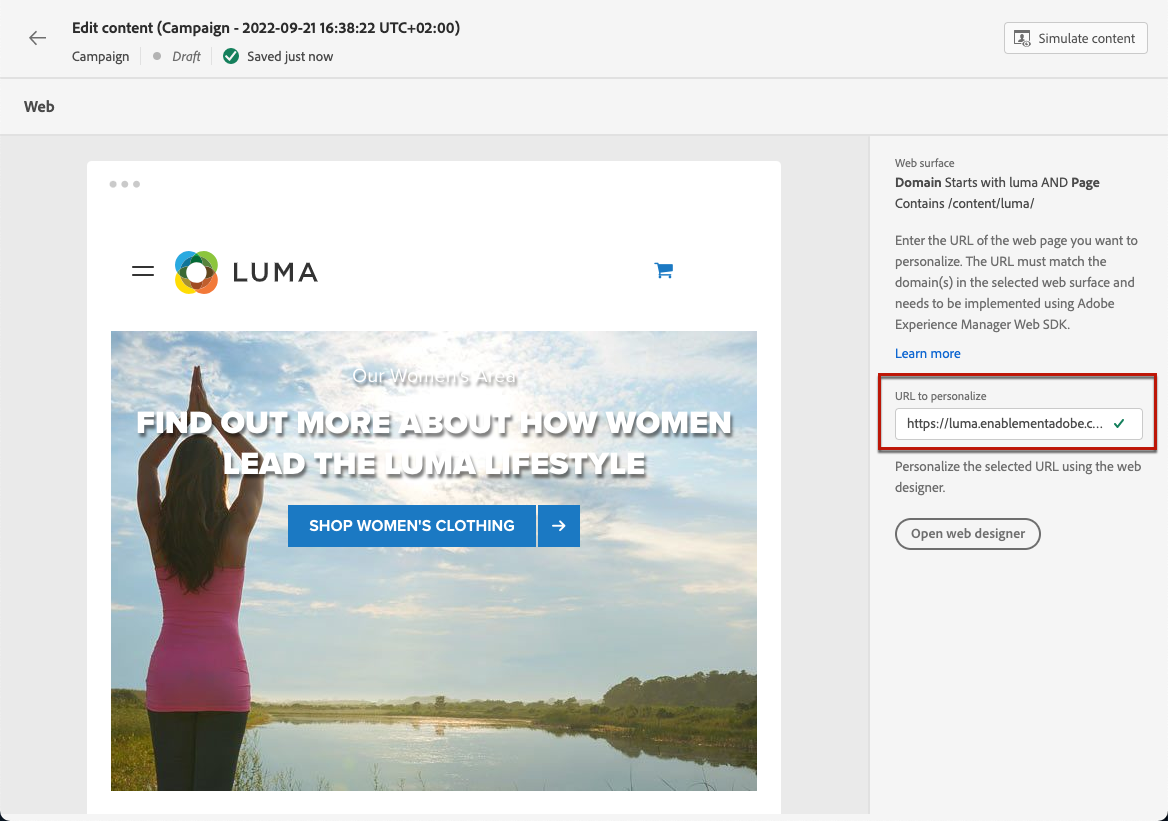
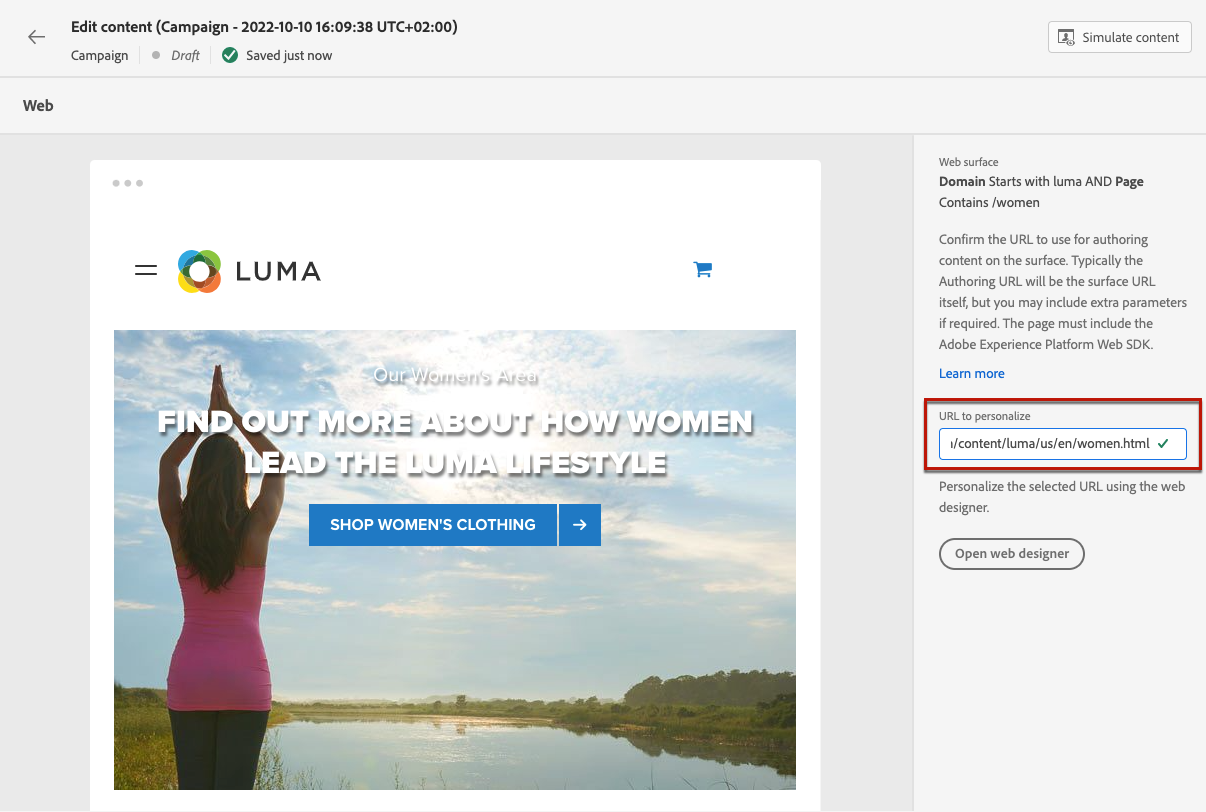
web

diff --git a/help/using/web/author-web.md b/help/using/web/author-web.md
@@ -1,7 +1,7 @@
 ---
 title: Author a web page
 description: Learn how to author a web page and edit its content in Journey Optimizer
-feature: Email
+feature: Web channel
 topic: Content Management
 role: User
 level: Beginner
@@ -9,74 +9,27 @@ level: Beginner
 ---
 # Author web pages {#author-web}
 
-In order to add modifications to your website:
+## Edit web page content {#edit-web-content}
 
-* You must download the [Adobe Experience Cloud Visual Editing Helper](https://chrome.google.com/webstore/detail/adobe-experience-cloud-vi/kgmjjkfjacffaebgpkpcllakjifppnca){target="_blank"} browser extension on Chrome to access the web designer.
-
-    >[!CAUTION]
-    >
-    >Currently to author web pages you can only use Chrome.
-
-    <!--Add link to documentation (first to be documented for Target so we should be able to use the same doc).-->
-
-* You need to implement the [Adobe Experience Platform Web SDK](https://experienceleague.adobe.com/docs/platform-learn/implement-web-sdk/overview.html){target="_blank"} on your website.
-
-## Create a web campaign {#create-web-campaign}
-
-1. Create a campaign. [Learn more](../campaigns/create-campaign.md)
-
-1. Select the **[!UICONTROL Web]** action.
-
-    ![](assets/web-create-campaign.png)
-
-1. Set a web surface, meaning the URL where the content will be delivered.
-
-    >[!NOTE]
-    >
-    >    A web surface represents a web property identified by an URL that can match a single page URL or multiple pages, allowing users to deliver the modifications across one or multiple web pages.
-
-    You can either:
-
-    * Enter or select a **[!UICONTROL Page URL]** (will then be converted to a surface string) if you want to apply the changes to a single page only.
-
-    ![](assets/web-campaign-surface.png)
-    
-    * Define a **[!UICONTROL Pages matching rule]** to target multiple URLs matching the same rule - for example, if you want to apply the changes to a hero banner accross a whole website or add a top image that displays on all the product pages of a website.
-
-    ![](assets/web-campaign-matching-rule.png)
-
-1. Select **[!UICONTROL Create]**.
-
-1. From the **[!UICONTROL Action]** tab of the campaign, select **[!UICONTROL Edit content]**.
-
-    ![](assets/web-edit-content.png)
-
-1. Enter the URL of the page you want to personalize.
-
-    >[!NOTE]
-    >
-    >If you entered a single URL as the web surface, the URL to personalize is already populated. If you defined a **[!UICONTROL Pages matching rule]**, you must enter any URL matching this rule. The changes will be applied to all pages matching the rule.
-
-    ![](assets/web-edit-enter-url.png)
-
-    >[!CAUTION]
-    >
-    >The web page must be implemented using the [Adobe Experience Platform Web SDK](https://experienceleague.adobe.com/docs/platform-learn/implement-web-sdk/overview.html){target="_blank"}.
-
-
-1. The content of the page displays. Click **[!UICONTROL Open web designer]** to edit it.
-
-    ![](assets/web-open-designer.png)
-
-## Edit a web page content {#edit-web-content}
-
-Once you created a web action from the campaign, follow the steps below to edit its content with the web designer.
+Once you created a web action from the campaign, you can edit your content using the web designer.
 
 ![](assets/web-designer.png)
 
-1. You can replace an image, a link, etc.
+Select any element from the canvas, such as image, button, paragraph, text, container, heading, link etc. and use:
 
-1. You can duplicate and delete any element.
+* The contextual menu to edit its content, layout, insert links or personalization, etc.
+
+    ![](assets/web-designer-contextual-bar.png)
+
+* The icons on top of the right panel to edit, duplicate, delete or hide each element.
+
+    ![](assets/web-designer-right-panel-icons.png)
+
+* The right panel that changes dynamically according to the selected element. For example, you can edit the background, typography, border, size, position, spacing, effects or inline styles of an element.
+
+    ![](assets/web-designer-right-panel.png)
+
+## Use content components {#content-components}
 
 1. From the **[!UICONTROL Components]** pane on the left, you can add the following components to your web page and edit them as you need:
 
@@ -102,13 +55,21 @@ Once you created a web action from the campaign, follow the steps below to edit 
 
     ![](assets/web-designer-html-style.png)
 
-1. Select the **[!UICONTROL Expand/Collapse Breadcrumbs]** button on the lower left side of the screen to quickly display information about the selected element.
+## Navigate through the web designer
+
+### Use breadcrumbs
+
+1. Select any element from the canvas.
+
+1. Click the **[!UICONTROL Expand/Collapse Breadcrumbs]** button on the lower left side of the screen to quickly display information about the selected element.
 
     ![](assets/web-designer-breadcrumbs.png)
 
-    When you hover over the breadcrumbs, the corresponding element is highlighted in the editor. Using it you can easily navigate to any parent, sibling, or child element within the visual editor.
+1. When you hover over the breadcrumbs, the corresponding element is highlighted in the editor.
 
-## Browse mode {#browse-mode}
+1. Using it you can easily navigate to any parent, sibling, or child element within the visual editor.
+
+### Swap to browse mode {#browse-mode}
 
 You can swap from the default **[!UICONTROL Design]** mode to the **[!UICONTROL Browse]** mode using the dedicated button.
 
@@ -116,9 +77,9 @@ You can swap from the default **[!UICONTROL Design]** mode to the **[!UICONTROL 
 
 From the **[!UICONTROL Browse]** mode, you can navigate to the exact page from the selected surface you want to personalize.
 
-It is especially useful when dealing with pages that are behind authentication or that are not available from the start at a certain URL. For example, you will be able to authenticate, navigate to your account page or to your cart page and then switch back to **[!UICONTROL Design]** mode in order to perform the changes on your desired page.
+It is especially useful when dealing with pages that are behind authentication or that are not available from the start at a certain URL. For example, you will be able to authenticate, navigate to your account page or to your cart page, and then switch back to **[!UICONTROL Design]** mode in order to perform the changes on your desired page.
 
-## Change device size
+### Change device size
 
 You can change the device size to a predefined size such as **[!UICONTROL Tablet]** or **[!UICONTROL Mobile landscape]**, or define a custom size. Enter the desired number of pixels to define a custom size.
 
@@ -126,9 +87,9 @@ You can also change the zoom focus - from 25% to 400%.
 
 ![](assets/web-designer-device.png)
 
-## Manage modifications on a web page {#manage-modifications}
+## Manage modifications {#manage-modifications}
 
-You can easily manage all the components, adjustments and styles you added to your page.
+You can easily manage all the components, adjustments and styles you added to your web page.
 
 1. Select the **[!UICONTROL Modifications]** button to display the corresponding pane on the left.
 
@@ -148,7 +109,7 @@ You can easily manage all the components, adjustments and styles you added to yo
 
     <!--![](assets/web-designer-cancel-redo.png)-->
 
-## Add personalization and offers to a web page
+## Add personalization and offers
 
 To add personalization, select a container and select the personalization icon from the contextual menu bar that displays. Add your changes using the Expression editor. [Learn more](../personalization/personalization-build-expressions.md)
 
@@ -157,20 +118,3 @@ To add personalization, select a container and select the personalization icon f
 Use the **[!UICONTROL Offer decision]** component to insert [offers](../offers/get-started/starting-offer-decisioning.md) into your messages. It will leverage Decision Management to pick the best offer to deliver to your customers. [Learn more](../design/deliver-personalized-offers.md)
 
 ![](assets/web-designer-offer.png)
-
-## Preview and test
-
->[!CAUTION]
->
->You must have test profiles available to simulate which offers will be delivered to them. Learn how to [create test profiles](../segment/creating-test-profiles.md).
-
-1. Click **[!UICONTROL Simulate content]**.
-
-    ![](assets/web-designer-simulate.png)
-
-1. Click **[!UICONTROL Manage test profiles]** to select one or more test profiles.
-1. A preview of your modified web page is displayed. You can either open in the default browser or copy the test URL to use it in a different browser.
-
-    ![](assets/web-designer-preview.png)
-
-<!--See simulation.md and preview.md-->

diff --git a/help/using/web/create-web.md b/help/using/web/create-web.md
@@ -1,0 +1,153 @@
+---
+title: Author a web page
+description: Learn how to author a web page and edit its content in Journey Optimizer
+feature: Web channel
+topic: Content Management
+role: User
+level: Beginner
+
+---
+# Create web experiences {#create-web}
+
+[!DNL Journey Optimizer] allows you to personalize the web experience through inbound web campaigns.
+
+To be able to author your web experience, follow the prerequisites below.
+
+* To add modifications to your website, you need to implement the [Adobe Experience Platform Web SDK](https://experienceleague.adobe.com/docs/platform-learn/implement-web-sdk/overview.html){target="_blank"} on your website.
+
+* To access the [!DNL Journey Optimizer] web designer, you must download the [Adobe Experience Cloud Visual Editing Helper](https://chrome.google.com/webstore/detail/adobe-experience-cloud-vi/kgmjjkfjacffaebgpkpcllakjifppnca){target="_blank"} browser extension on Chrome.
+
+>[!CAUTION]
+>
+>Currently to author web pages you can only use Chrome.
+
+<!--Add link to Target??-->
+
+## Create a web campaign {#create-web-campaign}
+
+To start building a web experience through a campaign, follow the steps below.
+
+>[!CAUTION]
+>
+>Currently you can only create web experiences using **campaigns**.
+
+1. Create a campaign. [Learn more](../campaigns/create-campaign.md)
+
+1. Select the **[!UICONTROL Web]** action.
+
+    ![](assets/web-create-campaign.png)
+
+1. Define a web surface, which is a web property identified by a URL where the content will be delivered. It can match a single page URL or multiple pages, allowing you to deliver modifications across one or several web pages.
+
+    You can either:
+
+    * Enter a **[!UICONTROL Page URL]** if you want to apply the changes to a single page only.
+
+    ![](assets/web-campaign-surface.png)
+    
+    * Define a **[!UICONTROL Pages matching rule]** to target multiple URLs matching the same rule - for example, if you want to apply the changes to a hero banner accross a whole website or add a top image that displays on all the product pages of a website. [Learn more](#pages-matching-rule)
+
+    ![](assets/web-campaign-matching-rule.png)
+
+1. Select **[!UICONTROL Create]**.
+
+### Create a pages matching rule {#pages-matching-rule}
+
+To define a web surface using a pages matching rule, follow the steps below.
+
+1. When [creating a web campaign](#create-web-campaign), define a **[!UICONTROL Pages matching rule]**.
+
+1. Select **[!UICONTROL Create rule]**.
+
+    ![](assets/web-campaign-matching-rule.png)
+
+1. Define your criteria for **[!UICONTROL Domain]** and **[!UICONTROL Page]**.
+
+    For example, if you want to edit elements that are displayed on all the women product pages of your Luma Website, select **[!UICONTROL Domain]** **[!UICONTROL Starts with]** `luma` and **[!UICONTROL Page]** **[!UICONTROL Contains]** `women`.
+
+    ![](assets/web-pages-matching-rule.png)
+
+1. Save your changes.
+
+    ![](assets/web-pages-matching-rule-example.png)
+
+## Configure the web campaign
+
+1. In the **[!UICONTROL Properties]** tab, edit a name and add a description if needed.
+
+1. Select **[!UICONTROL Content experiment]** to test content treatments with parts of the audience to find which treatment helps you achieve your objective better. <!--??-->
+
+1. To assign custom or core data usage labels to the web campaign, select the **[!UICONTROL Manage access]** button on top of the screen. [Learn more on Object Level Access Control (OLAC)](../administration/object-based-access.md)
+
+1. From the **[!UICONTROL Action]** tab of the campaign, select **[!UICONTROL Edit content]**.
+
+    ![](assets/web-edit-content.png)
+
+1. If you [created a pages matching rule](#pages-matching-rule), you must enter any URL matching this rule. The changes will be applied to all pages matching the rule.
+
+    >[!NOTE]
+    >
+    >If you entered a single URL as the web surface, the URL to personalize is already populated.
+
+    ![](assets/web-edit-enter-url.png)
+
+    >[!CAUTION]
+    >
+    >To be accessed, the web page must be implemented using the [Adobe Experience Platform Web SDK](https://experienceleague.adobe.com/docs/platform-learn/implement-web-sdk/overview.html){target="_blank"}.
+
+
+1. The content of the page displays. Click **[!UICONTROL Open web designer]** to edit it. [Learn more](author-web.md)
+
+    ![](assets/web-open-designer.png)
+
+1. Define the web campaign audience. By default, the web campaign will be visible to all visitors, or to a specific audience that you can select here.
+
+    ![](assets/web-campaign-audience.png)
+
+1. Define a schedule for your web campaign. By default, it starts when manually activated and ends when manually stopped, but you can also define specific dates and times.
+
+    ![](assets/web-campaign-schedule.png)
+
+## Test the web campaign {#test-web-campaign}
+
+To display a preview of your modified web experience, follow the steps below.
+
+>[!CAUTION]
+>
+>You must have test profiles available to simulate which offers will be delivered to them. Learn how to [create test profiles](../../segment/creating-test-profiles.md).
+
+1. From either the **[!UICONTROL Edit content]** screen or the web designer, select **[!UICONTROL Simulate content]**.
+
+    ![](assets/web-designer-simulate.png)
+
+1. Click **[!UICONTROL Manage test profiles]** to select one or more test profiles.
+1. A preview of your modified web page is displayed.
+
+    ![](assets/web-designer-preview.png)
+
+1. You can also copy the test URL to paste it in any browser, or open it in the default browser.
+
+>[!NOTE]
+>
+>If your content includes contextual data, it may not be rendered in the preview. You can execute the campaign using API to run end-to-end tests with contextual data. <!--To check with email designer / personalization sections? Link?-->
+
+## Activate the web campaign {#activate-web-campaign}
+
+1. Once you edited your content as desired using the web designer, go back to the web campaign.
+
+1. Select **[!UICONTROL Review to activate]**.
+
+    ![](assets/web-designer-review.png)
+
+1. Review and dit the properties, audience and schedule if needed.
+
+1. Select **[!UICONTROL Activate]**.
+
+## Stop a web campaign
+
+1. Select the campaign.
+
+1. From the top menu, select **[!UICONTROL Stop campaign]**.
+
+1. The modifications you added will not be visible anymore to the audience you defined.
+

diff --git a/help/using/web/get-started-web.md b/help/using/web/get-started-web.md
@@ -1,7 +1,7 @@
 ---
 title: Get started with web channel
 description: Learn about web channel in Journey Optimizer
-feature: Email
+feature: Web channel
 topic: Content Management
 role: User
 level: Beginner
@@ -23,9 +23,9 @@ You can author your web experiences in a similar fashion as you do it for mail o
 
 <table>
 <tr>
-<td><img src="../assets/do-not-localize/icon_assets.svg" width="60px"><p><a href="author-web.md">Author web pages</a></p></td>
-<td><img src="../assets/do-not-localize/icon_personalization.svg" width="60px"><p><a href="author-web.md">Personalize web pages</a></p></td>
-<td><img src="../assets/do-not-localize/icon_design.svg" width="60px"><p><a href="author-web.md">Use cases</a></p></td>
+<td><img src="../assets/do-not-localize/icon_assets.svg" width="60px"><p><a href="create-web.md">Create web experiences</a></p></td>
+<td><img src="../assets/do-not-localize/icon_design.svg" width="60px"><p><a href="author-web.md.md">Author web pages</a></p></td>
+<td><img src="../assets/do-not-localize/monitor.svg" width="60px"><p><a href="web-report.md">Web reporting</a></p></td>
 </tr>
 </table>
 
